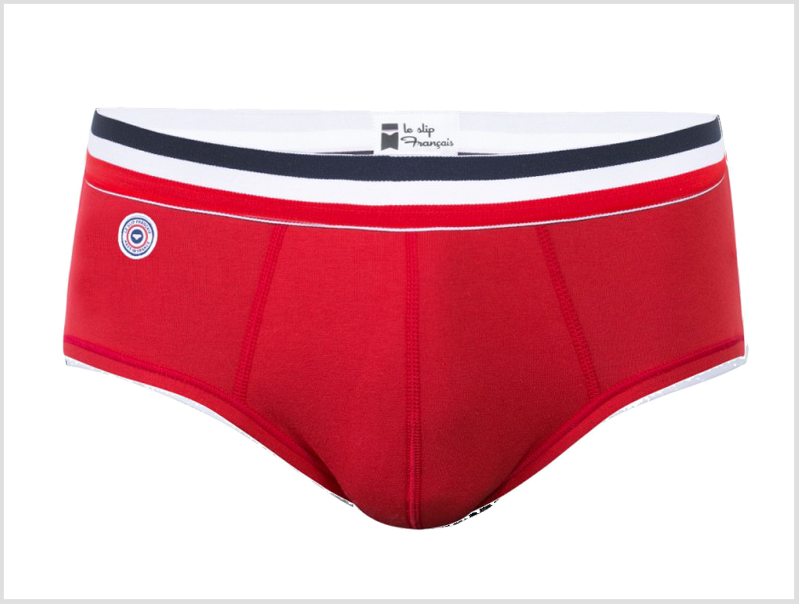
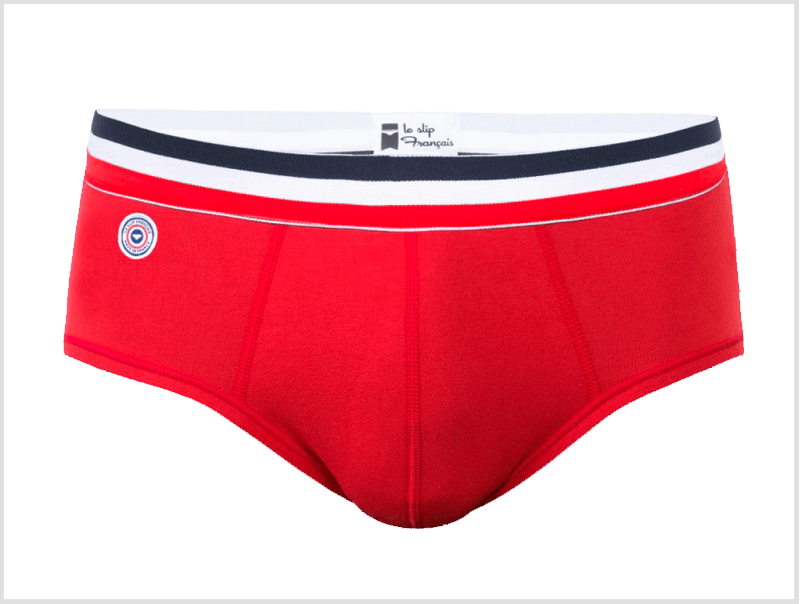
minify images and add listeners to slip_items

diff --git a/slip/index.html b/slip/index.html
@@ -36,9 +36,10 @@
 <img src="images/plafond.jpg" id="plafond"></img>
 <img src="images/Sky_1.jpg" id="sky"></img>
 <img src="images/ombre radial 256px.png" id="shadow1"></img>
- <img src="images/slip-homme-bleu-foudroyant.jpg" id="slip-bleu"></img>
-<img src="images/slip-homme-gris-conquerant.jpg" id="slip-blanc"></img>
-<img src="images/slip-homme-rouge-fougeux.jpg" id="slip-rouge"></img>
+<img src="images/slip_bleu.png" id="slip-bleu"></img>
+<img src="images/slip_blanc.png" id="slip-blanc"></img>
+<img src="images/slip_rouge.png" id="slip-rouge"></img>
+<img src="images/slip_gris.png" id="slip-gris"></img>
 
 <img src="images/creation.jpg" id="creation"></img>
 <img src="images/mozaic.png" id="mozaic"></img>
@@ -48,8 +49,7 @@
   <a-entity class="link"
      geometry="primitive: plane; height: 2; width: 2"
      material="shader: flat; src: ${thumb}"
-     sound="on: click; src: #click-sound"
-     event-set__1="_event: click; material.color: red; scale: 2 2 2"
+     event-set__1="_event: mouseenter; material.color: blue"
      event-set__2="_event: mouseenter; material.color: blue">
   </a-entity>
 </script>
@@ -156,10 +156,10 @@
 <a-box scale="0.1 10.72 20" position="0.02 1.6 -14.6" rotation="0 90 90" visible="true" material="src:url(images/white_wood.jpg); repeat: 1 2" geometry="primitive:box"></a-box>
 
 <a-entity id="links" layout="type: box; columns: 2; margin: 2.5" position="8.40 2.20 7.45" rotation="0 -90 0">
-    <a-entity template="src: #slip_item" data-thumb="#slip-bleu" ></a-entity>
-    <a-entity template="src: #slip_item" data-thumb="#slip-bleu"></a-entity>
-    <a-entity template="src: #slip_item" data-thumb="#slip-blanc"></a-entity>
-    <a-entity template="src: #slip_item" data-thumb="#slip-rouge"></a-entity>
+    <a-entity class="slip_item" template="src: #slip_item" data-thumb="#slip-bleu" ></a-entity>
+    <a-entity class="slip_item" template="src: #slip_item" data-thumb="#slip-gris"></a-entity>
+    <a-entity class="slip_item" template="src: #slip_item" data-thumb="#slip-blanc"></a-entity>
+    <a-entity class="slip_item" template="src: #slip_item" data-thumb="#slip-rouge"></a-entity>
   </a-entity>
 
   <div class="inner" ng-view></div>

diff --git a/src/app.js b/src/app.js
@@ -12,6 +12,12 @@ module.exports = function(deps) {
   add_to_cart_button.on('click', function() {
     display_cart($); 
   });
+  var slip_items = $(css_classes.slip_item);
+  console.log("attaching listeners");
+  slip_items.on('click', function() {
+    console.log('coucou');  
+  });
+  
 };
 
 function display_cart($) {

diff --git a/src/css_classes.js b/src/css_classes.js
@@ -1,5 +1,6 @@
 
 module.exports = {
   add_to_cart: '.add_to_cart',
-  cart_board: '.cart_board'
+  cart_board: '.cart_board',
+  slip_item: '.slip_item'
 };
